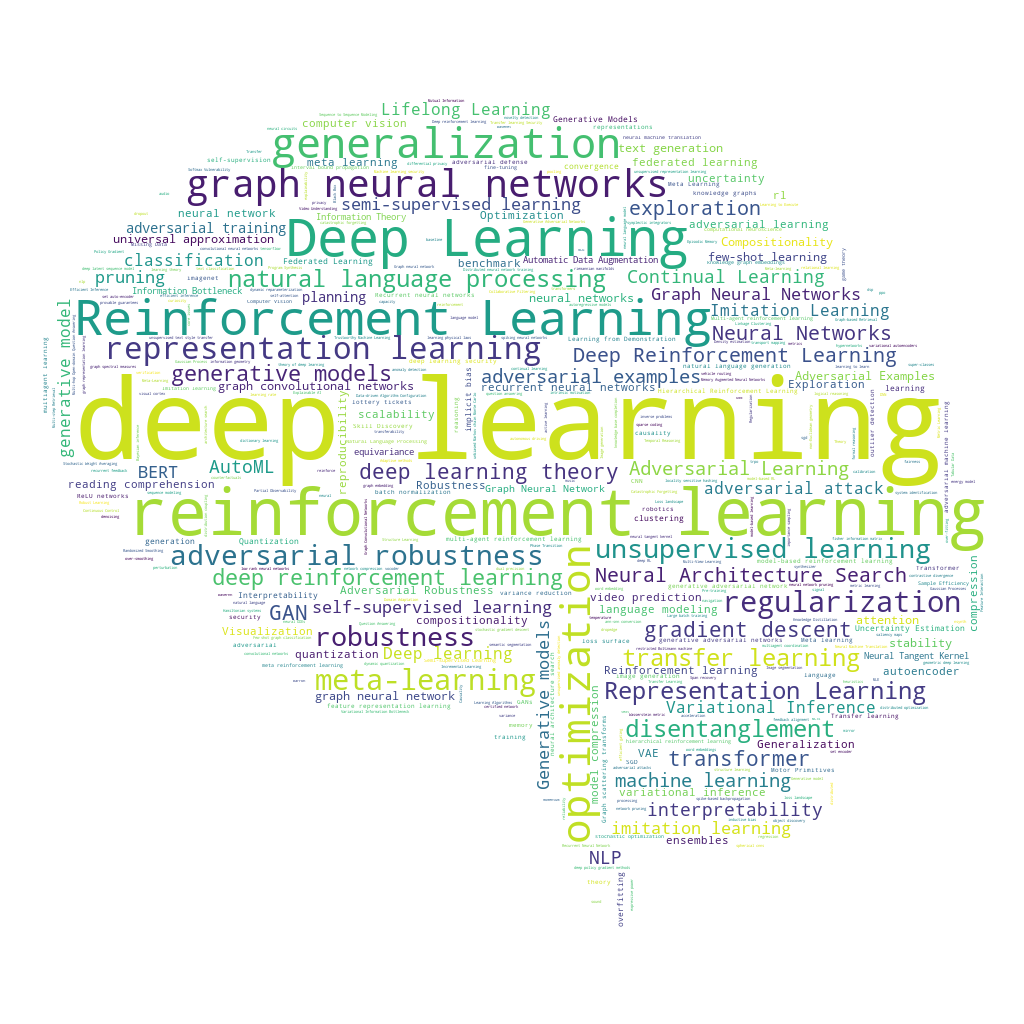
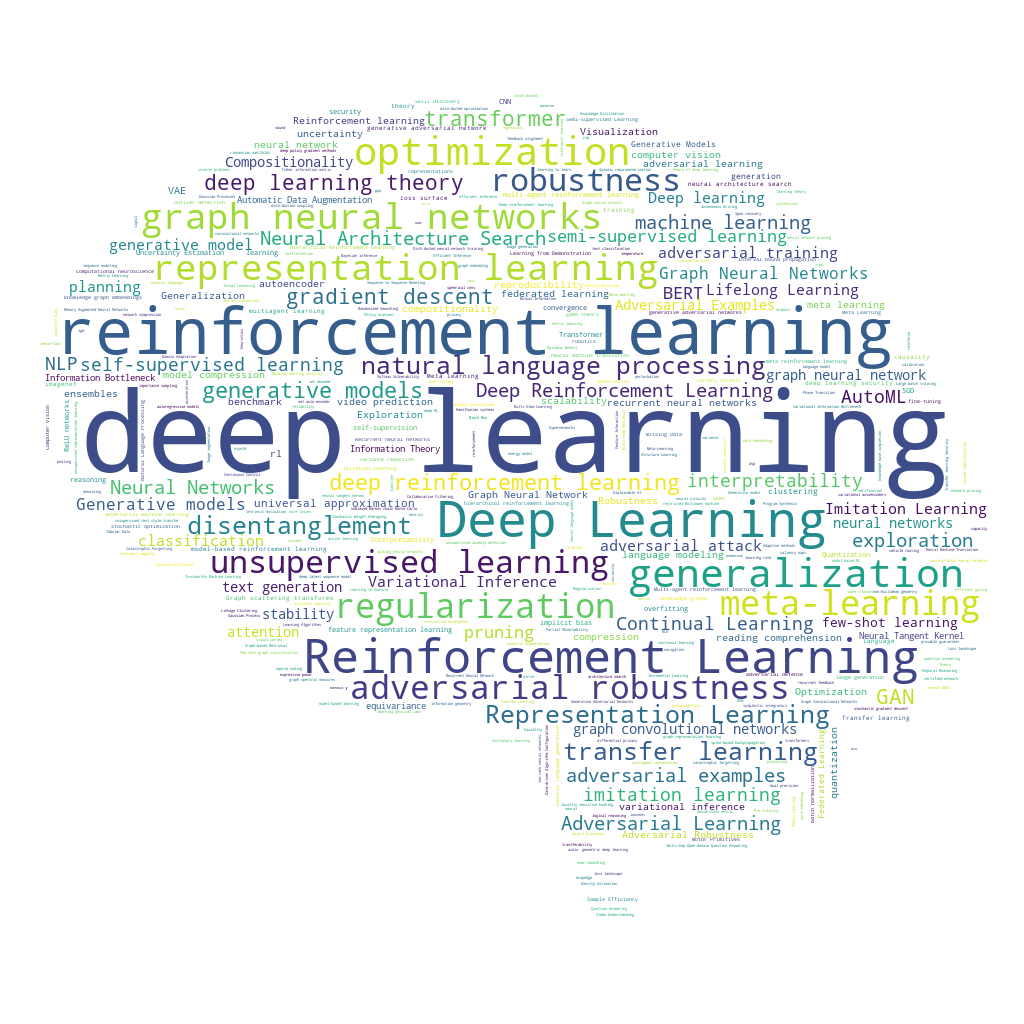
add word cloud

Changed region(s): [[0.0312, 0.0938, 0.9688, 0.9062]]

diff --git a/README.md b/README.md
@@ -1,1 +1,18 @@
 Web crawler for [ICLR 2020 OpenReview web page](https://openreview.net/group?id=ICLR.cc/2020/Conference)
+
+### Analysis
+#### Total accepted paper: 687
+#### Top-10 Keywords
+- deep learning: 64 times
+- reinforcement learning: 53 times
+- Deep Learning: 31 times
+- Reinforcement Learning: 27 times
+- generalization: 19 times
+- optimization: 18 times
+- graph neural networks: 15 times
+- representation learning: 15 times
+- regularization: 13 times
+- meta-learning: 13 times
+
+### WordCloud
+![image](2020-04-16_14-28-16_result.png)
